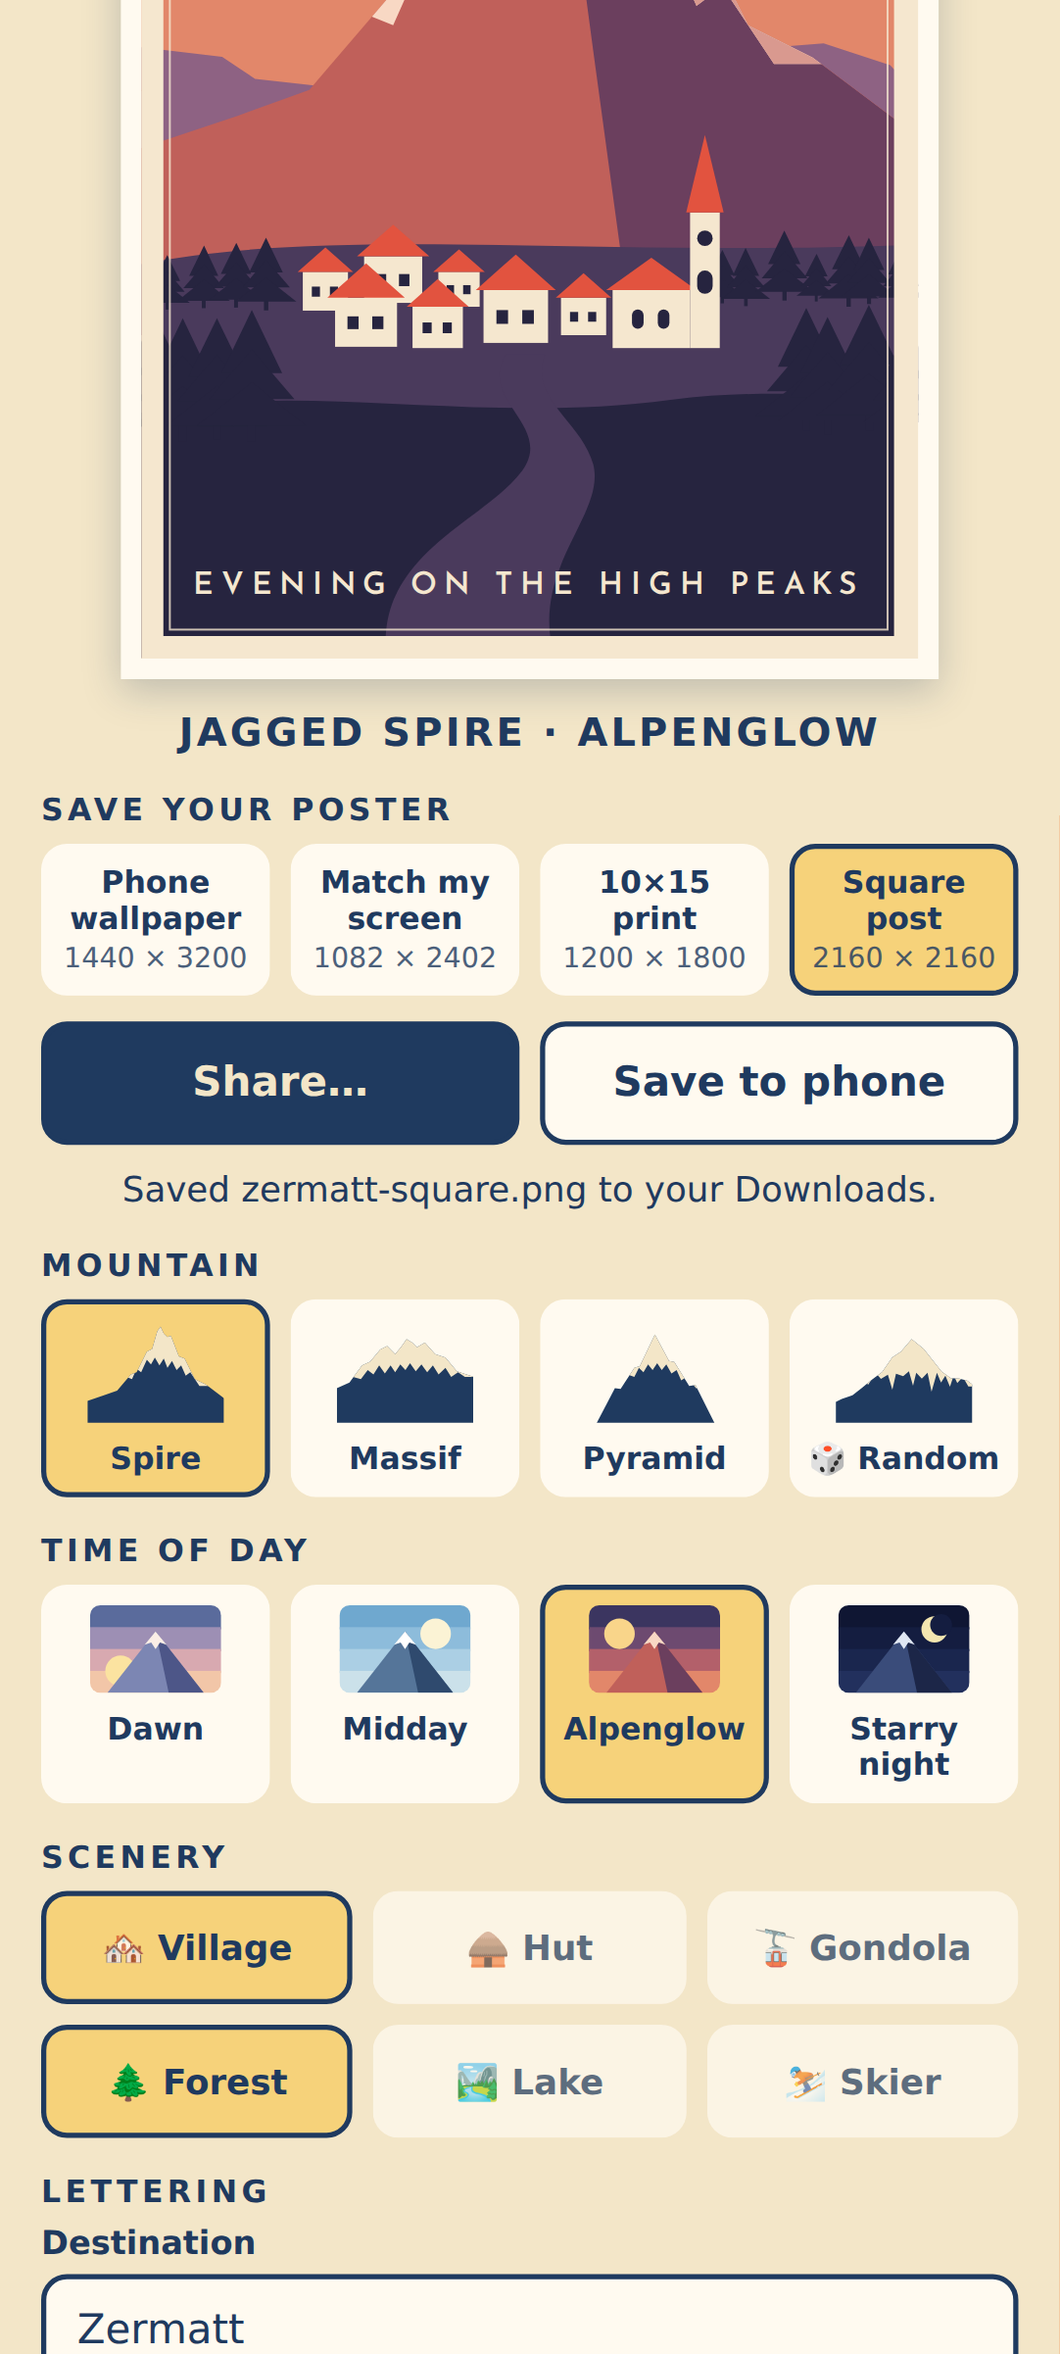
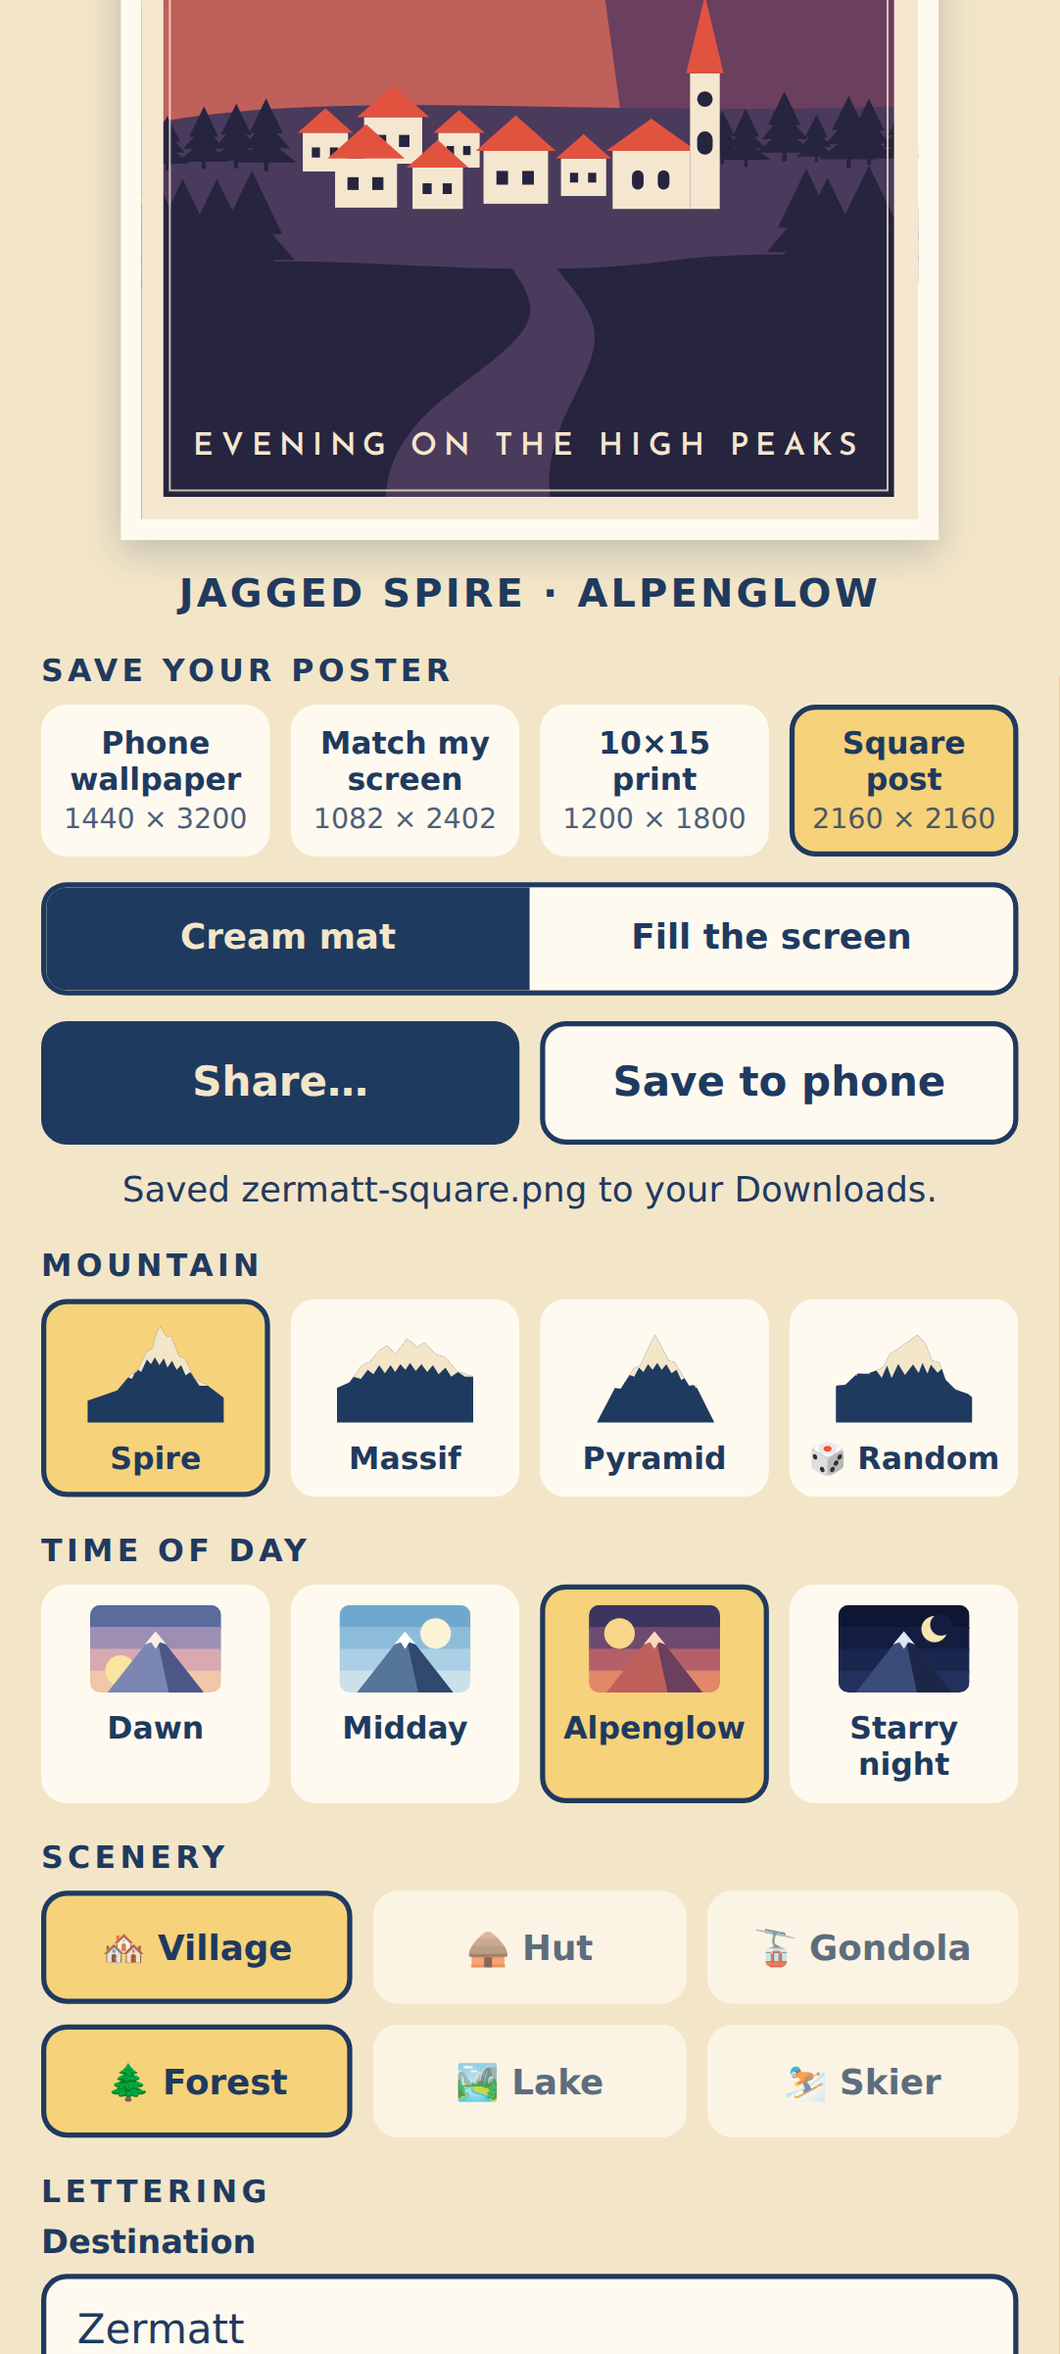
M6: add Mat / Fill choice for wallpaper and square exports
- Fill: poster drawn without its paper border or texture, its outer pixels
  (sampled a little inside the edge) stretched to the canvas edges so the
  sky continues upward, the ground and lane downward, the scenery
  sideways; then the print texture is laid over the whole image
- Print style overlays now take any width/height
- Mat / Fill segmented switch under the sizes, remembered; files saved
  in Fill mode are named *-fill.png
- e2e: corner pixels prove mat vs fill; fill exports reviewed per style

Claude-Session: https://claude.ai/code/session_01TaRHGurwidBpdiENrgqWQz

diff --git a/src/export.js b/src/export.js
@@ -1,4 +1,5 @@
-import { renderPoster, POSTER_WIDTH, POSTER_HEIGHT } from './poster.js';
+import { renderPoster, POSTER_WIDTH, POSTER_HEIGHT, styleOf } from './poster.js';
+import { printStyle } from './styles/print.js';
 import { PALETTES } from './palettes.js';
 import { letteringOf, TYPEFACES } from './layers/lettering.js';
 
@@ -17,6 +18,9 @@ export function screenSize(win = globalThis) {
   const b = Math.round(win.screen.height * dpr);
   return { width: Math.min(a, b), height: Math.max(a, b) };
 }
+
+// How a poster fills a shape other than 2:3: on a cream mat, or with its scenery extended edge to edge.
+export const FITS = { mat: 'Cream mat', fill: 'Fill the screen' };
 
 export function sizeFor(key, win = globalThis) {
   return key === 'screen' ? screenSize(win) : EXPORT_SIZES[key];
@@ -67,34 +71,70 @@ function loadImage(url) {
   });
 }
 
+const svgUrl = (svg) => URL.createObjectURL(new Blob([svg], { type: 'image/svg+xml' }));
+
+async function drawSvg(ctx, svg, x, y, w, h) {
+  const url = svgUrl(svg);
+  try {
+    ctx.drawImage(await loadImage(url), x, y, w, h);
+  } finally {
+    URL.revokeObjectURL(url);
+  }
+}
+
+// Extend the edges of the poster (drawn at x, y, w, h) out to the whole canvas by stretching its
+// outermost pixels: the sky continues upward, the ground (and any lane) downward, the scenery sideways.
+// The poster is drawn without texture in this mode, so stretched pixels stay clean. Pixels are taken a
+// little way in from the edge, because the screen-print wobble leaves the outermost ones ragged.
+function extendEdges(ctx, canvas, { x, y, w, h }, inset) {
+  const W = canvas.width;
+  const H = canvas.height;
+  if (y > 0) {
+    ctx.drawImage(canvas, x, y + inset, w, 1, 0, 0, W, y + inset);
+    ctx.drawImage(canvas, x, y + h - inset - 1, w, 1, 0, y + h - inset, W, H - y - h + inset);
+  }
+  if (x > 0) {
+    ctx.drawImage(canvas, x + inset, y, 1, h, 0, y, x + inset, h);
+    ctx.drawImage(canvas, x + w - inset - 1, y, 1, h, x + w - inset, y, W - x - w + inset, h);
+  }
+}
+
 // Recipe → PNG Blob at the requested size.
-export async function exportPoster(recipe, { width, height, embedFonts = true } = {}) {
+export async function exportPoster(recipe, { width, height, embedFonts = true, fit = 'mat' } = {}) {
   const scale = Math.min(width / POSTER_WIDTH, height / POSTER_HEIGHT);
   const w = Math.round(POSTER_WIDTH * scale);
   const h = Math.round(POSTER_HEIGHT * scale);
+  const x = Math.round((width - w) / 2);
+  const y = Math.round((height - h) / 2);
+  const fill = fit === 'fill' && (w < width || h < height);
 
-  let svg = renderPoster(recipe, { id: 'export' })
+  let svg = renderPoster(recipe, { id: 'export', frame: !fill, overlay: !fill })
     .replace('<svg ', `<svg width="${w}" height="${h}" `);
   if (embedFonts) {
     const css = await embeddedFontCss(fontsUsed(recipe));
     svg = svg.replace(/(<svg [^>]*>)/, `$1<style>${css}</style>`);
   }
 
-  const url = URL.createObjectURL(new Blob([svg], { type: 'image/svg+xml' }));
-  try {
-    const img = await loadImage(url);
-    const canvas = document.createElement('canvas');
-    canvas.width = width;
-    canvas.height = height;
-    const ctx = canvas.getContext('2d');
-    ctx.fillStyle = PALETTES[recipe.time]?.paper ?? '#f3e6c8';
-    ctx.fillRect(0, 0, width, height);
-    ctx.drawImage(img, Math.round((width - w) / 2), Math.round((height - h) / 2), w, h);
-    return await new Promise((resolve, reject) =>
-      canvas.toBlob((blob) => (blob ? resolve(blob) : reject(new Error('Could not create image'))), 'image/png'));
-  } finally {
-    URL.revokeObjectURL(url);
+  const canvas = document.createElement('canvas');
+  canvas.width = width;
+  canvas.height = height;
+  const ctx = canvas.getContext('2d');
+  const p = PALETTES[recipe.time] ?? PALETTES.alpenglow;
+  ctx.fillStyle = p.paper;
+  ctx.fillRect(0, 0, width, height);
+  await drawSvg(ctx, svg, x, y, w, h);
+
+  if (fill) {
+    extendEdges(ctx, canvas, { x, y, w, h }, Math.ceil(10 * scale));
+    // The print texture goes over the whole image, so the extended edges match the poster.
+    const print = printStyle(styleOf(recipe), p, { id: 'fill', seed: recipe.seed, width, height });
+    if (print.overlay) {
+      await drawSvg(ctx, `<svg xmlns="http://www.w3.org/2000/svg" width="${width}" height="${height}" viewBox="0 0 ${width} ${height}"><defs>${print.defs}</defs>${print.overlay}</svg>`, 0, 0, width, height);
+    }
   }
+
+  return new Promise((resolve, reject) =>
+    canvas.toBlob((blob) => (blob ? resolve(blob) : reject(new Error('Could not create image'))), 'image/png'));
 }
 
 export function fileName(recipe, sizeKey) {

diff --git a/src/styles/print.js b/src/styles/print.js
@@ -2,11 +2,10 @@
 // All effects are SVG filters and overlays, so the preview and the exported image match.
 export const PRINT_STYLES = ['flat', 'screenprint', 'aged'];
 
-const W = 1200;
-const H = 1800;
+// Overlays and filter regions cover a width × height area (the poster, or a whole export canvas).
 
 // Fine speckles of one colour, from high-frequency noise thresholded into dots.
-function specks(id, seed, { color, density, frequency = 0.9, threshold = 0.62 }) {
+function specks(id, seed, { color, density, frequency = 0.9, threshold = 0.62 }, W, H) {
   return `<filter id="${id}" x="0" y="0" width="${W}" height="${H}" filterUnits="userSpaceOnUse">` +
     `<feTurbulence type="fractalNoise" baseFrequency="${frequency}" numOctaves="2" seed="${seed}" stitchTiles="stitch"/>` +
     `<feColorMatrix type="matrix" values="0 0 0 0 0  0 0 0 0 0  0 0 0 0 0  ${density} 0 0 0 ${(-density * threshold).toFixed(2)}" result="dots"/>` +
@@ -15,14 +14,14 @@ function specks(id, seed, { color, density, frequency = 0.9, threshold = 0.62 })
 }
 
 // The screen-print look: ink edges that wander slightly, and grain in the paper.
-function screenprint(p, id, seed) {
+function screenprint(p, id, seed, W, H) {
   const defs =
     `<filter id="${id}-ink" x="-2%" y="-2%" width="104%" height="104%">` +
       `<feTurbulence type="fractalNoise" baseFrequency="0.04" numOctaves="2" seed="${seed}" result="wobble"/>` +
       `<feDisplacementMap in="SourceGraphic" in2="wobble" scale="5" xChannelSelector="R" yChannelSelector="G"/>` +
     `</filter>` +
-    specks(`${id}-grain-dark`, seed, { color: p.ink, density: 9, threshold: 0.66 }) +
-    specks(`${id}-grain-light`, seed + 7, { color: p.paper, density: 9, threshold: 0.68, frequency: 0.7 });
+    specks(`${id}-grain-dark`, seed, { color: p.ink, density: 9, threshold: 0.66 }, W, H) +
+    specks(`${id}-grain-light`, seed + 7, { color: p.paper, density: 9, threshold: 0.68, frequency: 0.7 }, W, H);
   const overlay =
     `<rect width="${W}" height="${H}" filter="url(#${id}-grain-dark)" opacity="0.3" style="mix-blend-mode:multiply" pointer-events="none"/>` +
     `<rect width="${W}" height="${H}" filter="url(#${id}-grain-light)" opacity="0.35" pointer-events="none"/>`;
@@ -30,7 +29,7 @@ function screenprint(p, id, seed) {
 }
 
 // Old and loved: faded warm inks, tea stains, darkened edges and fold lines.
-function aged(p, id, seed) {
+function aged(p, id, seed, W, H) {
   const defs =
     `<filter id="${id}-fade" color-interpolation-filters="sRGB">` +
       `<feColorMatrix type="matrix" values="0.78 0.16 0.06 0 0.05  0.10 0.76 0.08 0 0.04  0.08 0.14 0.60 0 0.03  0 0 0 1 0"/>` +
@@ -44,7 +43,7 @@ function aged(p, id, seed) {
       `<stop offset="62%" stop-color="#6b4a2a" stop-opacity="0"/>` +
       `<stop offset="100%" stop-color="#6b4a2a" stop-opacity="0.55"/>` +
     `</radialGradient>` +
-    specks(`${id}-grain`, seed + 3, { color: '#5a3e24', density: 2.6 });
+    specks(`${id}-grain`, seed + 3, { color: '#5a3e24', density: 2.6 }, W, H);
   const fold = (x1, y1, x2, y2) =>
     `<line x1="${x1}" y1="${y1}" x2="${x2}" y2="${y2}" stroke="#ffffff" stroke-width="3" opacity="0.28"/>` +
     `<line x1="${x1 + (x1 === x2 ? 3 : 0)}" y1="${y1 + (y1 === y2 ? 3 : 0)}" x2="${x2 + (x1 === x2 ? 3 : 0)}" y2="${y2 + (y1 === y2 ? 3 : 0)}" stroke="#4a3520" stroke-width="3" opacity="0.18"/>`;
@@ -59,9 +58,9 @@ function aged(p, id, seed) {
 }
 
 // → { defs, artFilter?, posterFilter?, overlay } for the chosen style ('flat' adds nothing).
-export function printStyle(style, p, { id, seed = 1 }) {
+export function printStyle(style, p, { id, seed = 1, width = 1200, height = 1800 }) {
   const s = Math.abs(Math.round(seed)) % 1000;
-  if (style === 'screenprint') return screenprint(p, id, s);
-  if (style === 'aged') return aged(p, id, s);
+  if (style === 'screenprint') return screenprint(p, id, s, width, height);
+  if (style === 'aged') return aged(p, id, s, width, height);
   return { defs: '', overlay: '' };
 }

diff --git a/tests/e2e/export.spec.js b/tests/e2e/export.spec.js
@@ -99,3 +99,60 @@ test('export works offline, fonts included', async ({ page, context }) => {
   const { path } = await exportAs(page, '10×15 print');
   expect(await pngSize(path)).toEqual({ width: 1200, height: 1800 });
 });
+
+test('Fill extends the scenery edge to edge; Mat keeps the cream border', async ({ page }) => {
+  await page.goto('./');
+  const corners = await page.evaluate(async () => {
+    const { exportPoster } = await import(new URL('src/export.js', document.baseURI).href);
+    const { SAMPLES } = await import(new URL('src/samples.js', document.baseURI).href);
+    const { PALETTES } = await import(new URL('src/palettes.js', document.baseURI).href);
+    const recipe = { ...SAMPLES[0], sun: undefined, time: 'midday', style: 'flat' };
+    const pixel = async (fit, width, height, x, y) => {
+      const bitmap = await createImageBitmap(await exportPoster(recipe, { width, height, fit }));
+      const canvas = new OffscreenCanvas(bitmap.width, bitmap.height);
+      const ctx = canvas.getContext('2d');
+      ctx.drawImage(bitmap, 0, 0);
+      const [r, g, b] = ctx.getImageData(x, y, 1, 1).data;
+      return { size: [bitmap.width, bitmap.height], rgb: `#${[r, g, b].map((v) => v.toString(16).padStart(2, '0')).join('')}` };
+    };
+    return {
+      paper: PALETTES.midday.paper,
+      sky: PALETTES.midday.sky[0],
+      fore: PALETTES.midday.fore,
+      matTop: await pixel('mat', 720, 1600, 10, 10),
+      fillTop: await pixel('fill', 720, 1600, 10, 10),
+      fillBottom: await pixel('fill', 720, 1600, 10, 1590),
+      fillSquareSide: await pixel('fill', 1080, 1080, 5, 20),
+    };
+  });
+  const near = (a, b) => [1, 3, 5].every((i) => Math.abs(parseInt(a.slice(i, i + 2), 16) - parseInt(b.slice(i, i + 2), 16)) <= 12);
+  expect(corners.matTop.size).toEqual([720, 1600]);
+  expect(near(corners.matTop.rgb, corners.paper), `mat corner ${corners.matTop.rgb}`).toBe(true);
+  expect(near(corners.fillTop.rgb, corners.sky), `fill top ${corners.fillTop.rgb} vs sky ${corners.sky}`).toBe(true);
+  expect(near(corners.fillBottom.rgb, corners.fore), `fill bottom ${corners.fillBottom.rgb} vs ground ${corners.fore}`).toBe(true);
+  expect(near(corners.fillSquareSide.rgb, corners.paper), 'square fill side should be sky, not paper').toBe(false);
+});
+
+test('the Mat / Fill choice is used for saved files and remembered', async ({ page }) => {
+  await page.goto('./');
+  await page.getByLabel('Destination').fill('Zermatt');
+  await page.getByRole('radio', { name: 'Fill the screen' }).click();
+  const { path, name } = await exportAs(page, 'Phone wallpaper');
+  expect(name).toBe('zermatt-wallpaper-fill.png');
+  expect(await pngSize(path)).toEqual({ width: 1440, height: 3200 });
+  await copyFile(path, `${SHOTS}/export-wallpaper-fill.png`);
+  const square = await exportAs(page, 'Square post');
+  await copyFile(square.path, `${SHOTS}/export-square-fill.png`);
+  await page.reload();
+  await expect(page.getByRole('radio', { name: 'Fill the screen' })).toHaveAttribute('aria-checked', 'true');
+});
+
+test('review exports: fill with each print style', async ({ page }) => {
+  await page.goto('./');
+  for (const [style, name] of [['Screen print', 'screenprint'], ['Aged paper', 'aged']]) {
+    await page.getByRole('radio', { name: style }).click();
+    await page.getByRole('radio', { name: 'Fill the screen' }).click();
+    const { path } = await exportAs(page, 'Match my screen');
+    await copyFile(path, `${SHOTS}/export-screen-fill-${name}.png`);
+  }
+});

diff --git a/src/export-ui.js b/src/export-ui.js
@@ -1,14 +1,19 @@
-import { EXPORT_SIZES, sizeFor, exportPoster, fileName, shareFile, downloadFile } from './export.js';
+import { EXPORT_SIZES, FITS, sizeFor, exportPoster, fileName, shareFile, downloadFile } from './export.js';
 
 const STORE_KEY = 'apm.exportSize';
+const FIT_KEY = 'apm.exportFit';
 
-function loadSize() {
+function load(key, valid, fallback) {
   try {
-    const saved = localStorage.getItem(STORE_KEY);
-    return EXPORT_SIZES[saved] ? saved : 'screen';
+    const saved = localStorage.getItem(key);
+    return valid[saved] ? saved : fallback;
   } catch {
-    return 'screen';
+    return fallback;
   }
+}
+
+function store(key, value) {
+  try { localStorage.setItem(key, value); } catch { /* ignore */ }
 }
 
 // Size picker plus Share / Save buttons. `getRecipe` returns the poster currently in the editor.
@@ -17,7 +22,9 @@ export function startExport(getRecipe) {
   const shareButton = document.getElementById('share-button');
   const saveButton = document.getElementById('save-button');
   const status = document.getElementById('export-status');
-  let size = loadSize();
+  const fitPicker = document.getElementById('fit-picker');
+  let size = load(STORE_KEY, EXPORT_SIZES, 'screen');
+  let fit = load(FIT_KEY, FITS, 'mat');
 
   picker.innerHTML = Object.entries(EXPORT_SIZES).map(([key, s]) => {
     const { width, height } = sizeFor(key);
@@ -25,24 +32,38 @@ export function startExport(getRecipe) {
       `<span>${s.label}</span><small>${width} × ${height}</small></button>`;
   }).join('');
   const buttons = [...picker.querySelectorAll('button')];
+  fitPicker.innerHTML = Object.entries(FITS).map(([key, label]) =>
+    `<button type="button" role="radio" data-value="${key}">${label}</button>`).join('');
+  const fitButtons = [...fitPicker.querySelectorAll('button')];
 
   function show() {
     for (const b of buttons) b.setAttribute('aria-checked', String(b.dataset.value === size));
+    for (const b of fitButtons) b.setAttribute('aria-checked', String(b.dataset.value === fit));
+    // The 10×15 print is already the poster's shape, so mat or fill makes no difference there.
+    fitPicker.classList.toggle('muted', size === 'print');
   }
+
+  fitPicker.addEventListener('click', (event) => {
+    const button = event.target.closest('button[data-value]');
+    if (!button) return;
+    fit = button.dataset.value;
+    store(FIT_KEY, fit);
+    show();
+  });
 
   picker.addEventListener('click', (event) => {
     const button = event.target.closest('button[data-value]');
     if (!button) return;
     size = button.dataset.value;
-    try { localStorage.setItem(STORE_KEY, size); } catch { /* ignore */ }
+    store(STORE_KEY, size);
     show();
   });
 
   async function makeFile() {
     const recipe = getRecipe();
     const { width, height } = sizeFor(size);
-    const blob = await exportPoster(recipe, { width, height });
-    return new File([blob], fileName(recipe, size), { type: 'image/png' });
+    const blob = await exportPoster(recipe, { width, height, fit });
+    return new File([blob], fileName(recipe, fit === 'fill' && size !== 'print' ? `${size}-fill` : size), { type: 'image/png' });
   }
 
   async function run(action) {

diff --git a/src/poster.js b/src/poster.js
@@ -20,8 +20,12 @@ const CELESTIAL = {
   night: { x: 900, y: 420, r: 80 },
 };
 
+export const styleOf = (recipe) => (PRINT_STYLES.includes(recipe.style) ? recipe.style : 'flat');
+
 // Recipe → complete poster SVG markup. `id` keeps clip/mask ids unique when several posters share a page.
-export function renderPoster(recipe, { id = recipe.id } = {}) {
+// Exports that fill a whole screen draw the poster without its paper border (frame: false) and add
+// the print texture over the whole image themselves (overlay: false).
+export function renderPoster(recipe, { id = recipe.id, frame = true, overlay = true } = {}) {
   const p = PALETTES[recipe.time];
   const rng = createRng(recipe.seed);
   const body = { ...CELESTIAL[recipe.time], ...recipe.sun };
@@ -29,7 +33,7 @@ export function renderPoster(recipe, { id = recipe.id } = {}) {
     ? stars(p, rng, { count: 80, bottom: 1000 }) + moon(p, { id, ...body })
     : sun(p, body);
 
-  const style = PRINT_STYLES.includes(recipe.style) ? recipe.style : 'flat';
+  const style = styleOf(recipe);
   const print = printStyle(style, p, { id, seed: recipe.seed });
   const art = sky(p, { horizon: HORIZON }) +
     celestial +
@@ -41,7 +45,7 @@ export function renderPoster(recipe, { id = recipe.id } = {}) {
 
   return `<svg xmlns="http://www.w3.org/2000/svg" viewBox="0 0 ${POSTER_WIDTH} ${POSTER_HEIGHT}" role="img" aria-label="${escapeText(recipe.lettering?.title || 'Untitled')} poster" data-style="${style}">` +
     (print.defs ? `<defs>${print.defs}</defs>` : '') +
-    wrap(print.posterFilter, wrap(print.artFilter, art) + border(p)) +
-    print.overlay +
+    wrap(print.posterFilter, wrap(print.artFilter, art) + (frame ? border(p) : '')) +
+    (overlay ? print.overlay : '') +
     `</svg>`;
 }

diff --git a/src/app.css b/src/app.css
@@ -166,6 +166,29 @@ main {
 
 .picker-size small { font-size: 0.68rem; font-weight: 400; opacity: 0.8; }
 
+.segmented {
+  display: grid;
+  grid-template-columns: 1fr 1fr;
+  width: 100%;
+  border: 2px solid var(--navy);
+  border-radius: 10px;
+  overflow: hidden;
+}
+
+.segmented button {
+  font: inherit;
+  font-size: 0.85rem;
+  font-weight: 600;
+  min-height: 40px;
+  border: 0;
+  background: #fffaf0;
+  color: var(--navy);
+}
+
+.segmented button[aria-checked="true"] { background: var(--navy); color: var(--cream); }
+
+.segmented.muted { opacity: 0.45; }
+
 .export-actions { display: grid; grid-template-columns: 1fr 1fr; gap: 8px; width: 100%; }
 
 .action-button {

diff --git a/index.html b/index.html
@@ -24,6 +24,7 @@
       <p class="peak-label" id="peak-label"></p>
       <h2 class="picker-heading" id="size-heading">Save your poster</h2>
       <div class="picker picker-size" id="size-picker" role="radiogroup" aria-labelledby="size-heading"></div>
+      <div class="segmented" id="fit-picker" role="radiogroup" aria-label="Wallpaper and square layout"></div>
       <div class="export-actions">
         <button type="button" class="action-button" id="share-button">Share…</button>
         <button type="button" class="action-button secondary" id="save-button">Save to phone</button>
